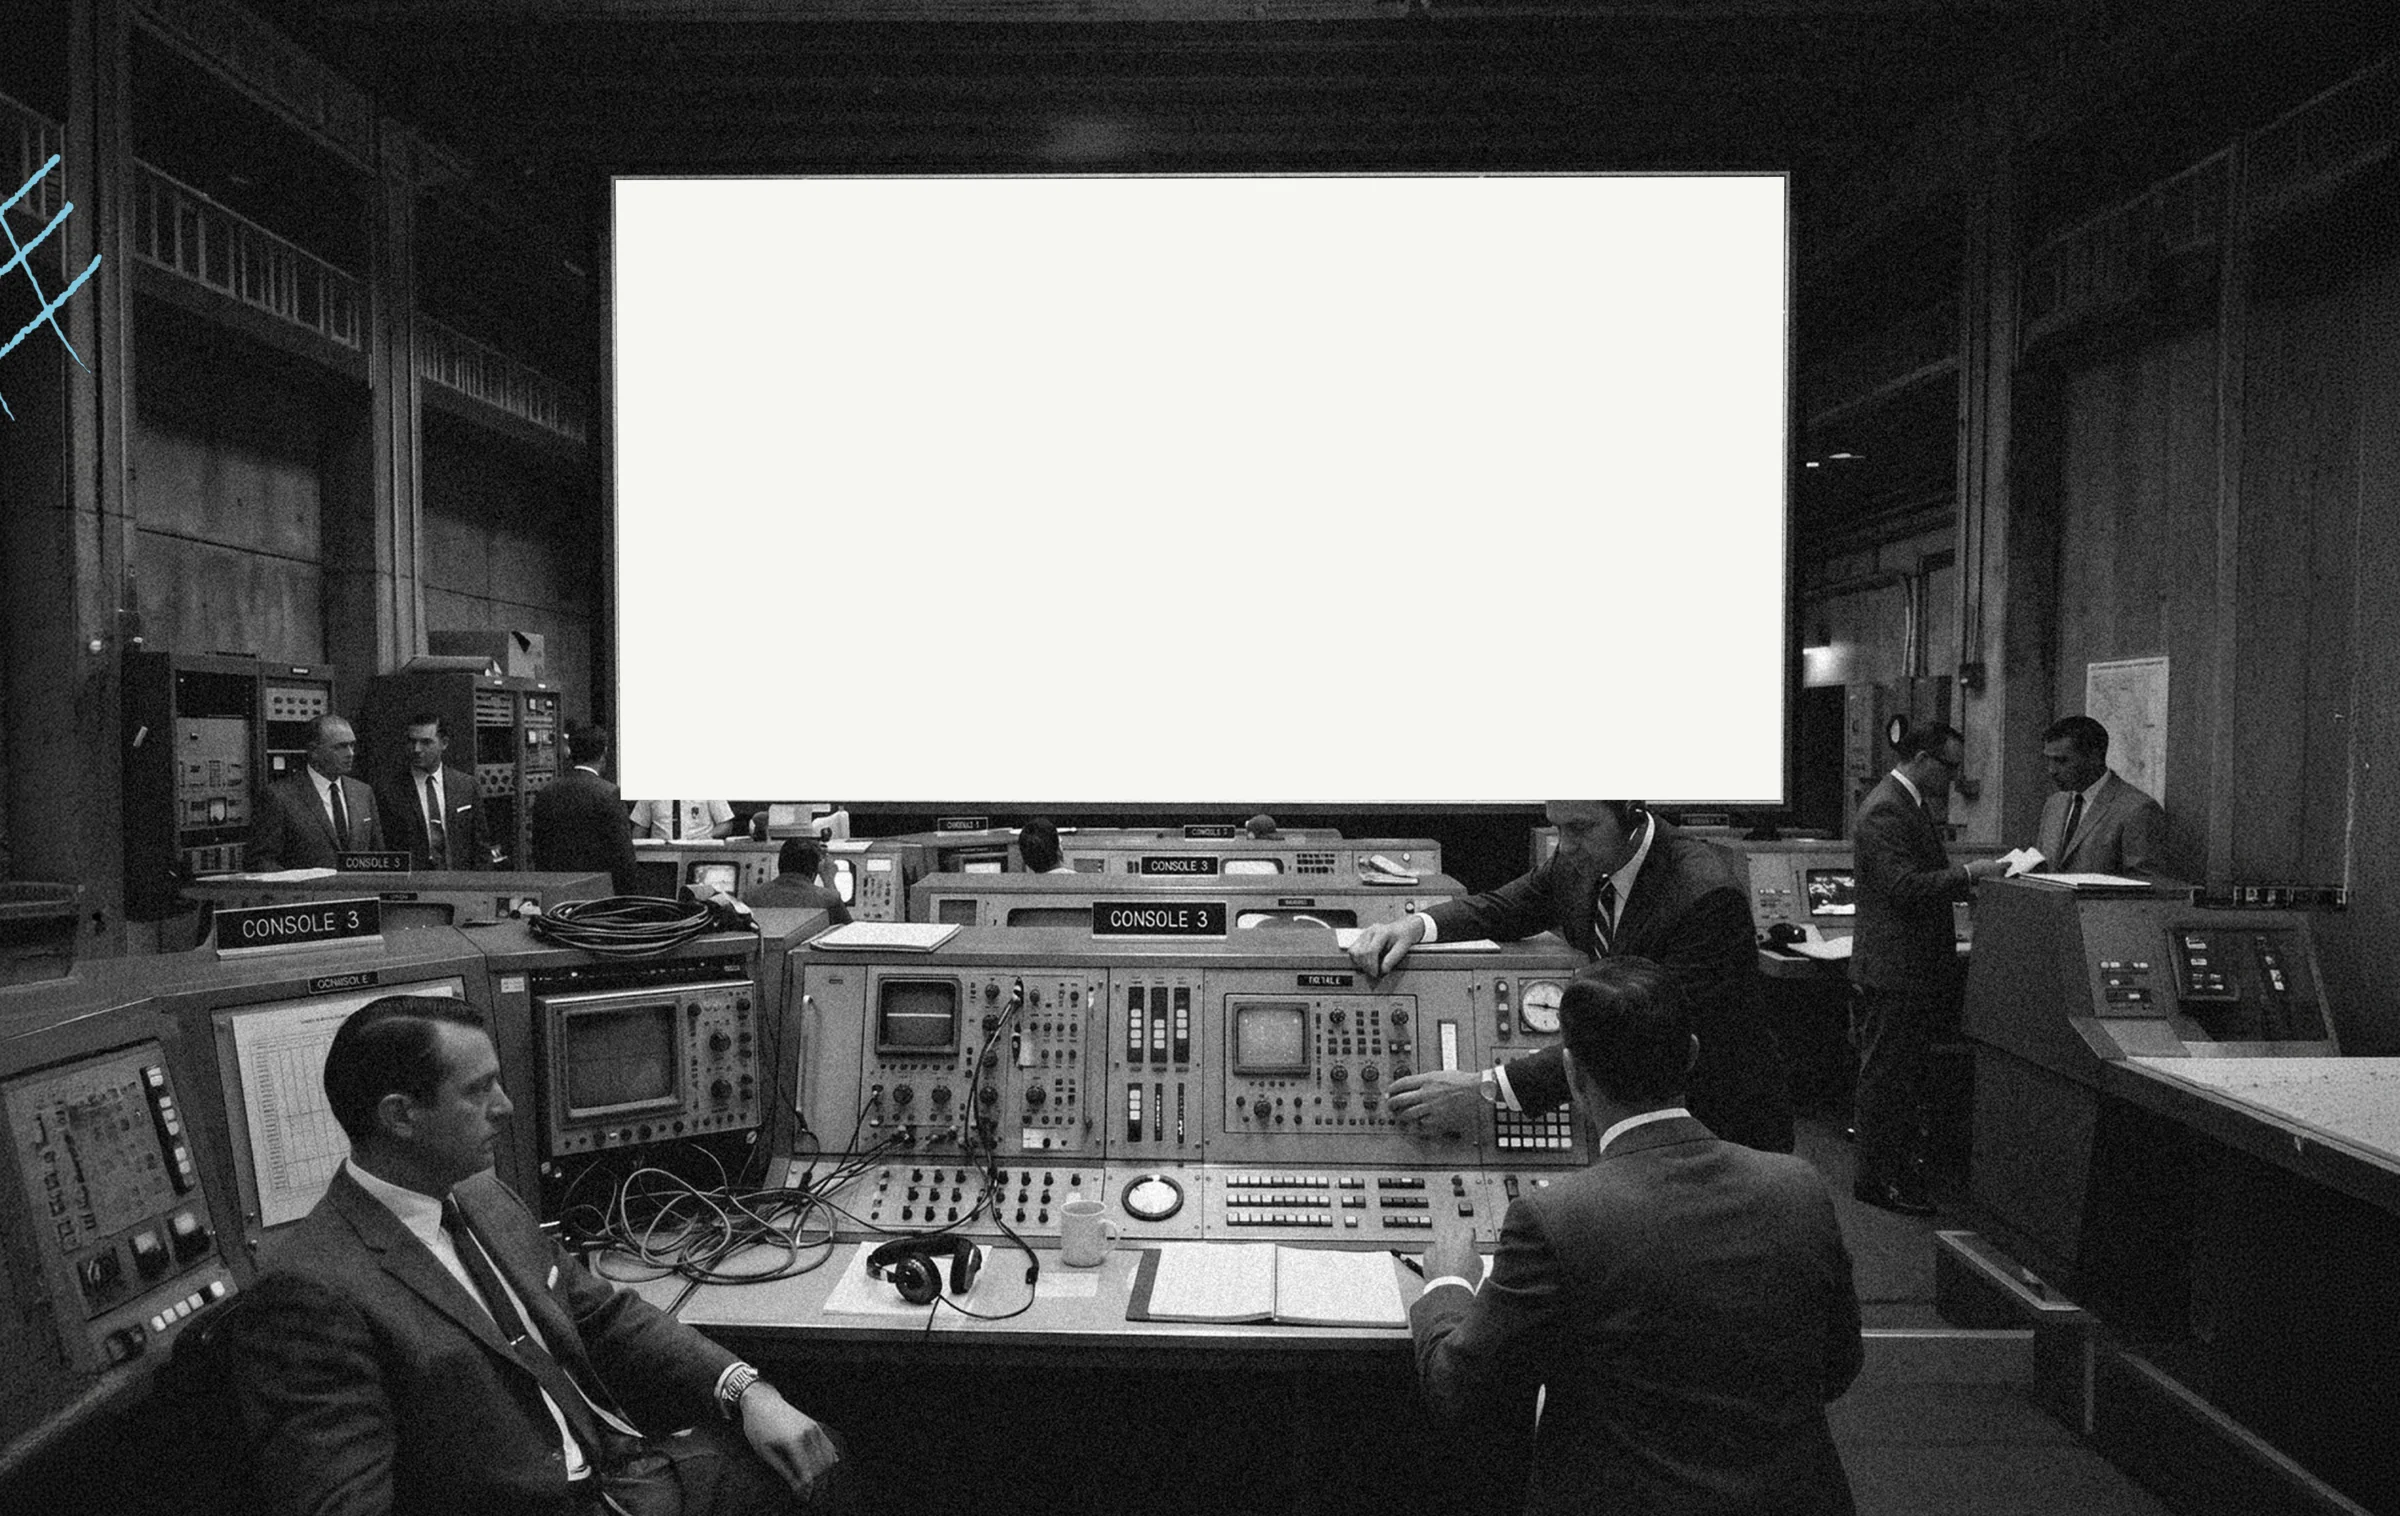
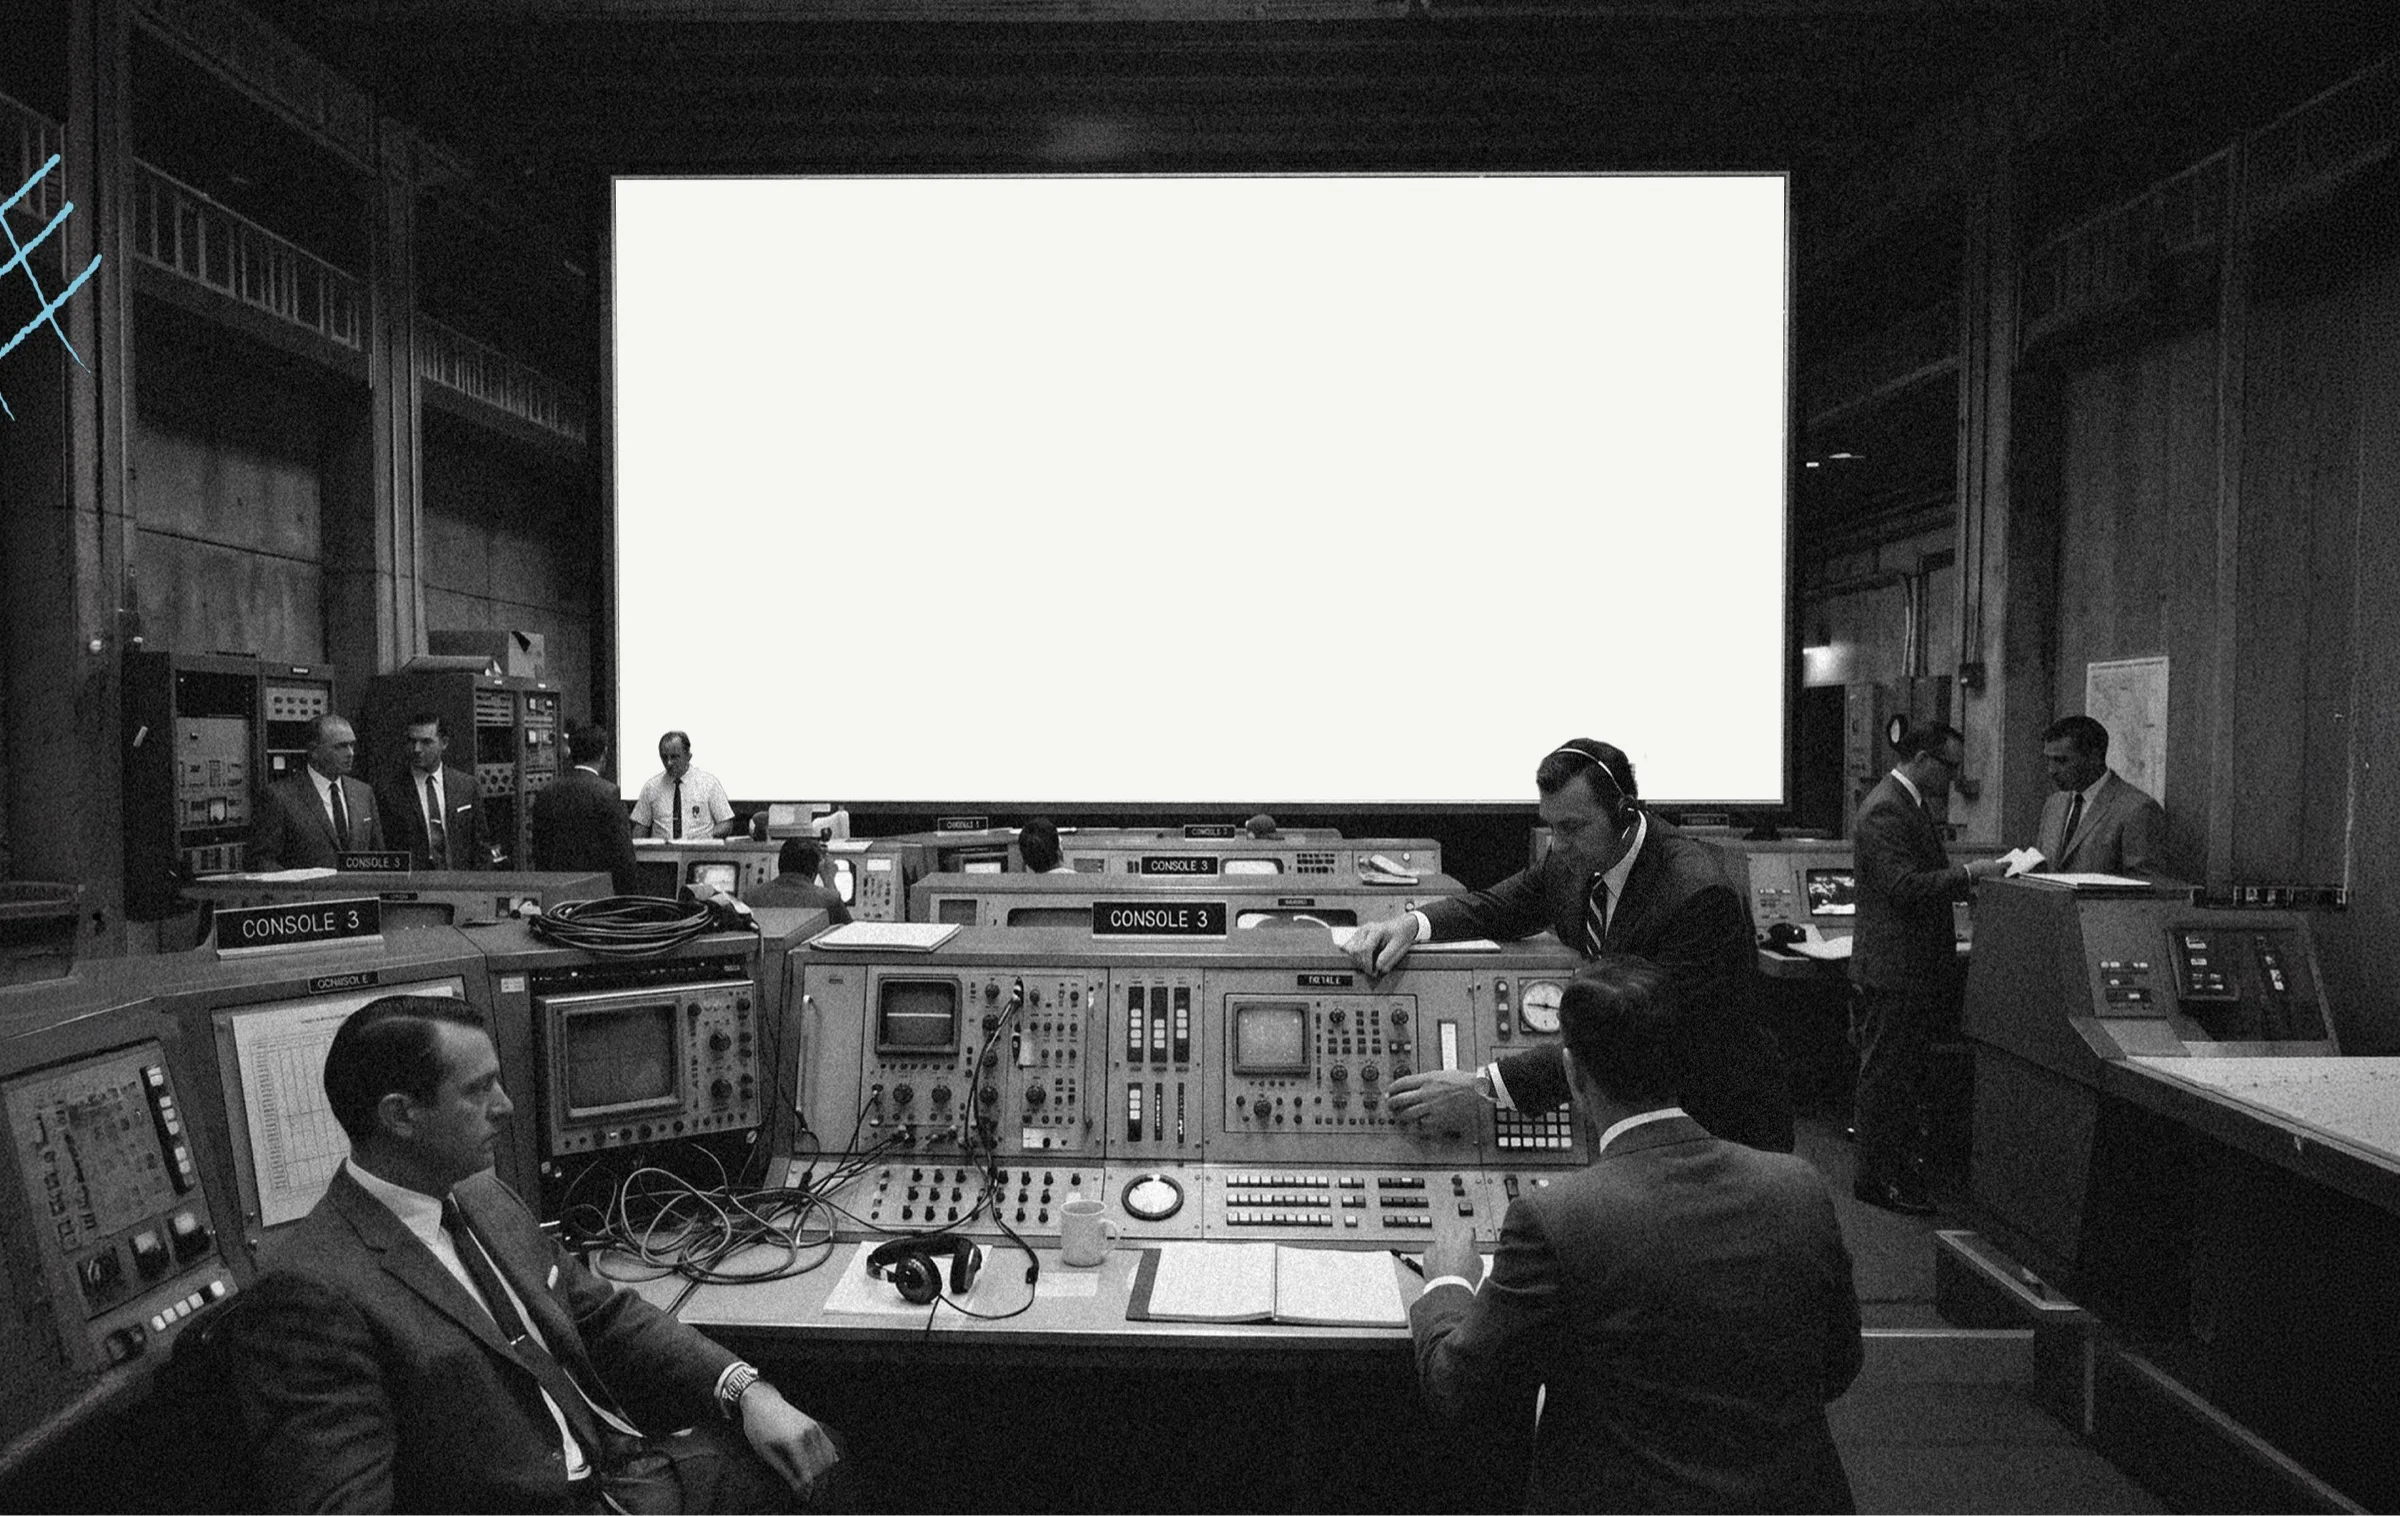
Omar: fix broken Optimisation accordion image + update About hero
- Accordion 'Optimisation' panel referenced /images/ai-accordion/optimisation.webp (404); actual file is optimization.webp. Fixed both refs in index.html and across all ~30 landing-page templates.
- Replaced About Us hero (about-hero-mission-control.webp/.jpg/.png) with the latest design at 2400px wide.

diff --git a/layouts/_default/account-based-marketing-agency.html b/layouts/_default/account-based-marketing-agency.html
@@ -234,7 +234,7 @@
         <img class="pr-ai-grid__layer is-active" data-image-key="/images/ai-accordion/research.webp" loading="lazy" decoding="async" src="/images/ai-accordion/research.webp" alt="AI in ABM">
         <img class="pr-ai-grid__layer" data-image-key="/images/ai-accordion/copy.webp" loading="lazy" decoding="async" src="/images/ai-accordion/copy.webp" alt="">
         <img class="pr-ai-grid__layer" data-image-key="/images/ai-accordion/design.webp" loading="lazy" decoding="async" src="/images/ai-accordion/design.webp" alt="">
-        <img class="pr-ai-grid__layer" data-image-key="/images/ai-accordion/optimisation.webp" loading="lazy" decoding="async" src="/images/ai-accordion/optimisation.webp" alt="">
+        <img class="pr-ai-grid__layer" data-image-key="/images/ai-accordion/optimization.webp" loading="lazy" decoding="async" src="/images/ai-accordion/optimization.webp" alt="">
         <img class="pr-ai-grid__layer" data-image-key="/images/ai-accordion/analysis.webp" loading="lazy" decoding="async" src="/images/ai-accordion/analysis.webp" alt="">
       </div>
       <div class="pr-accordion" data-ai-accordion>
@@ -271,7 +271,7 @@
           <div class="pr-accordion__body">AI produces creative variants per tier, stakeholder, and industry so Tier 1 accounts see genuinely account-aware creative, not a generic LinkedIn ad with the company name swapped in. Which creative earns trust in three seconds stays with the team.</div>
         </details>
 
-        <details class="pr-accordion__item" data-image="/images/ai-accordion/optimisation.webp">
+        <details class="pr-accordion__item" data-image="/images/ai-accordion/optimization.webp">
           <summary class="pr-accordion__header">
             <span class="pr-accordion__header-left">
               <img loading="lazy" decoding="async" src="/images/icon-ai-optimization.svg" class="pr-accordion__icon" alt="" aria-hidden="true">

diff --git a/layouts/_default/ai-seo-services.html b/layouts/_default/ai-seo-services.html
@@ -291,7 +291,7 @@
         <img class="pr-ai-grid__layer is-active" data-image-key="/images/ai-accordion/research.webp" loading="lazy" decoding="async" src="/images/ai-accordion/research.webp" alt="AI in AEO and GEO">
         <img class="pr-ai-grid__layer" data-image-key="/images/ai-accordion/copy.webp" loading="lazy" decoding="async" src="/images/ai-accordion/copy.webp" alt="">
         <img class="pr-ai-grid__layer" data-image-key="/images/ai-accordion/design.webp" loading="lazy" decoding="async" src="/images/ai-accordion/design.webp" alt="">
-        <img class="pr-ai-grid__layer" data-image-key="/images/ai-accordion/optimisation.webp" loading="lazy" decoding="async" src="/images/ai-accordion/optimisation.webp" alt="">
+        <img class="pr-ai-grid__layer" data-image-key="/images/ai-accordion/optimization.webp" loading="lazy" decoding="async" src="/images/ai-accordion/optimization.webp" alt="">
         <img class="pr-ai-grid__layer" data-image-key="/images/ai-accordion/analysis.webp" loading="lazy" decoding="async" src="/images/ai-accordion/analysis.webp" alt="">
       </div>
       <div class="pr-accordion" data-ai-accordion>
@@ -328,7 +328,7 @@
           <div class="pr-accordion__body">AI identifies the specific subreddits, trade publications, podcast transcripts, and GitHub threads that AI engines weight heavily for your category. Which placements move citation share vs. which just add backlinks stays with the team.</div>
         </details>
 
-        <details class="pr-accordion__item" data-image="/images/ai-accordion/optimisation.webp">
+        <details class="pr-accordion__item" data-image="/images/ai-accordion/optimization.webp">
           <summary class="pr-accordion__header">
             <span class="pr-accordion__header-left">
               <img loading="lazy" decoding="async" src="/images/icon-ai-optimization.svg" class="pr-accordion__icon" alt="" aria-hidden="true">

diff --git a/layouts/_default/bing-ads-agency.html b/layouts/_default/bing-ads-agency.html
@@ -253,7 +253,7 @@
         <img class="pr-ai-grid__layer is-active" data-image-key="/images/ai-accordion/research.webp" loading="lazy" decoding="async" src="/images/ai-accordion/research.webp" alt="AI in marketing">
         <img class="pr-ai-grid__layer" data-image-key="/images/ai-accordion/copy.webp" loading="lazy" decoding="async" src="/images/ai-accordion/copy.webp" alt="">
         <img class="pr-ai-grid__layer" data-image-key="/images/ai-accordion/design.webp" loading="lazy" decoding="async" src="/images/ai-accordion/design.webp" alt="">
-        <img class="pr-ai-grid__layer" data-image-key="/images/ai-accordion/optimisation.webp" loading="lazy" decoding="async" src="/images/ai-accordion/optimisation.webp" alt="">
+        <img class="pr-ai-grid__layer" data-image-key="/images/ai-accordion/optimization.webp" loading="lazy" decoding="async" src="/images/ai-accordion/optimization.webp" alt="">
         <img class="pr-ai-grid__layer" data-image-key="/images/ai-accordion/analysis.webp" loading="lazy" decoding="async" src="/images/ai-accordion/analysis.webp" alt="">
       </div>
       <div class="pr-accordion" data-ai-accordion>
@@ -290,7 +290,7 @@
           <div class="pr-accordion__body">AI produces creative variants across sizes, formats, and messaging angles so more combinations are evaluated before spend is committed. Which creative reflects the ICP accurately, which visual hierarchy converts, and whether the design earns trust or loses it in the first three seconds stays with the team.</div>
         </details>
 
-        <details class="pr-accordion__item" data-image="/images/ai-accordion/optimisation.webp">
+        <details class="pr-accordion__item" data-image="/images/ai-accordion/optimization.webp">
           <summary class="pr-accordion__header">
             <span class="pr-accordion__header-left">
               <img loading="lazy" decoding="async" src="/images/icon-ai-optimization.svg" class="pr-accordion__icon" alt="" aria-hidden="true">

diff --git a/layouts/_default/content-marketing-agency.html b/layouts/_default/content-marketing-agency.html
@@ -290,7 +290,7 @@
         <img class="pr-ai-grid__layer is-active" data-image-key="/images/ai-accordion/research.webp" loading="lazy" decoding="async" src="/images/ai-accordion/research.webp" alt="AI in content marketing">
         <img class="pr-ai-grid__layer" data-image-key="/images/ai-accordion/copy.webp" loading="lazy" decoding="async" src="/images/ai-accordion/copy.webp" alt="">
         <img class="pr-ai-grid__layer" data-image-key="/images/ai-accordion/design.webp" loading="lazy" decoding="async" src="/images/ai-accordion/design.webp" alt="">
-        <img class="pr-ai-grid__layer" data-image-key="/images/ai-accordion/optimisation.webp" loading="lazy" decoding="async" src="/images/ai-accordion/optimisation.webp" alt="">
+        <img class="pr-ai-grid__layer" data-image-key="/images/ai-accordion/optimization.webp" loading="lazy" decoding="async" src="/images/ai-accordion/optimization.webp" alt="">
         <img class="pr-ai-grid__layer" data-image-key="/images/ai-accordion/analysis.webp" loading="lazy" decoding="async" src="/images/ai-accordion/analysis.webp" alt="">
       </div>
       <div class="pr-accordion" data-ai-accordion>
@@ -327,7 +327,7 @@
           <div class="pr-accordion__body">AI produces page-layout hypotheses and CTA placement variants. Which layout converts, where to place the lead-capture form, and whether the page earns trust in the first three seconds stays with the team.</div>
         </details>
 
-        <details class="pr-accordion__item" data-image="/images/ai-accordion/optimisation.webp">
+        <details class="pr-accordion__item" data-image="/images/ai-accordion/optimization.webp">
           <summary class="pr-accordion__header">
             <span class="pr-accordion__header-left">
               <img loading="lazy" decoding="async" src="/images/icon-ai-optimization.svg" class="pr-accordion__icon" alt="" aria-hidden="true">

diff --git a/layouts/_default/cybersecurity-marketing-agency.html b/layouts/_default/cybersecurity-marketing-agency.html
@@ -247,7 +247,7 @@
         <img class="pr-ai-grid__layer is-active" data-image-key="/images/ai-accordion/research.webp" loading="lazy" decoding="async" src="/images/ai-accordion/research.webp" alt="AI in cybersecurity marketing">
         <img class="pr-ai-grid__layer" data-image-key="/images/ai-accordion/copy.webp" loading="lazy" decoding="async" src="/images/ai-accordion/copy.webp" alt="">
         <img class="pr-ai-grid__layer" data-image-key="/images/ai-accordion/design.webp" loading="lazy" decoding="async" src="/images/ai-accordion/design.webp" alt="">
-        <img class="pr-ai-grid__layer" data-image-key="/images/ai-accordion/optimisation.webp" loading="lazy" decoding="async" src="/images/ai-accordion/optimisation.webp" alt="">
+        <img class="pr-ai-grid__layer" data-image-key="/images/ai-accordion/optimization.webp" loading="lazy" decoding="async" src="/images/ai-accordion/optimization.webp" alt="">
         <img class="pr-ai-grid__layer" data-image-key="/images/ai-accordion/analysis.webp" loading="lazy" decoding="async" src="/images/ai-accordion/analysis.webp" alt="">
       </div>
       <div class="pr-accordion" data-ai-accordion>
@@ -284,7 +284,7 @@
           <div class="pr-accordion__body">AI produces creative variants across sizes, formats, and messaging angles so more combinations are evaluated before spend is committed. Which creative reflects the ICP accurately, which visual hierarchy converts, and whether the design earns trust or loses it in the first three seconds stays with the team.</div>
         </details>
 
-        <details class="pr-accordion__item" data-image="/images/ai-accordion/optimisation.webp">
+        <details class="pr-accordion__item" data-image="/images/ai-accordion/optimization.webp">
           <summary class="pr-accordion__header">
             <span class="pr-accordion__header-left">
               <img loading="lazy" decoding="async" src="/images/icon-ai-optimization.svg" class="pr-accordion__icon" alt="" aria-hidden="true">

diff --git a/layouts/_default/enterprise-ai-seo-services.html b/layouts/_default/enterprise-ai-seo-services.html
@@ -291,7 +291,7 @@
         <img class="pr-ai-grid__layer is-active" data-image-key="/images/ai-accordion/research.webp" loading="lazy" decoding="async" src="/images/ai-accordion/research.webp" alt="AI in enterprise AEO and GEO">
         <img class="pr-ai-grid__layer" data-image-key="/images/ai-accordion/copy.webp" loading="lazy" decoding="async" src="/images/ai-accordion/copy.webp" alt="">
         <img class="pr-ai-grid__layer" data-image-key="/images/ai-accordion/design.webp" loading="lazy" decoding="async" src="/images/ai-accordion/design.webp" alt="">
-        <img class="pr-ai-grid__layer" data-image-key="/images/ai-accordion/optimisation.webp" loading="lazy" decoding="async" src="/images/ai-accordion/optimisation.webp" alt="">
+        <img class="pr-ai-grid__layer" data-image-key="/images/ai-accordion/optimization.webp" loading="lazy" decoding="async" src="/images/ai-accordion/optimization.webp" alt="">
         <img class="pr-ai-grid__layer" data-image-key="/images/ai-accordion/analysis.webp" loading="lazy" decoding="async" src="/images/ai-accordion/analysis.webp" alt="">
       </div>
       <div class="pr-accordion" data-ai-accordion>
@@ -328,7 +328,7 @@
           <div class="pr-accordion__body">AI identifies the specific subreddits, trade publications, podcast transcripts, and GitHub threads that AI engines weight heavily for your category, across regions and languages. Which placements move citation share vs. which just add backlinks stays with the team.</div>
         </details>
 
-        <details class="pr-accordion__item" data-image="/images/ai-accordion/optimisation.webp">
+        <details class="pr-accordion__item" data-image="/images/ai-accordion/optimization.webp">
           <summary class="pr-accordion__header">
             <span class="pr-accordion__header-left">
               <img loading="lazy" decoding="async" src="/images/icon-ai-optimization.svg" class="pr-accordion__icon" alt="" aria-hidden="true">

diff --git a/layouts/_default/enterprise-ppc-agency.html b/layouts/_default/enterprise-ppc-agency.html
@@ -253,7 +253,7 @@
         <img class="pr-ai-grid__layer is-active" data-image-key="/images/ai-accordion/research.webp" loading="lazy" decoding="async" src="/images/ai-accordion/research.webp" alt="AI in marketing">
         <img class="pr-ai-grid__layer" data-image-key="/images/ai-accordion/copy.webp" loading="lazy" decoding="async" src="/images/ai-accordion/copy.webp" alt="">
         <img class="pr-ai-grid__layer" data-image-key="/images/ai-accordion/design.webp" loading="lazy" decoding="async" src="/images/ai-accordion/design.webp" alt="">
-        <img class="pr-ai-grid__layer" data-image-key="/images/ai-accordion/optimisation.webp" loading="lazy" decoding="async" src="/images/ai-accordion/optimisation.webp" alt="">
+        <img class="pr-ai-grid__layer" data-image-key="/images/ai-accordion/optimization.webp" loading="lazy" decoding="async" src="/images/ai-accordion/optimization.webp" alt="">
         <img class="pr-ai-grid__layer" data-image-key="/images/ai-accordion/analysis.webp" loading="lazy" decoding="async" src="/images/ai-accordion/analysis.webp" alt="">
       </div>
       <div class="pr-accordion" data-ai-accordion>
@@ -290,7 +290,7 @@
           <div class="pr-accordion__body">AI produces creative variants across sizes, formats, and messaging angles — on brand and within approved guidelines — so more combinations are evaluated before spend is committed. Which creative reflects the ICP accurately, which visual hierarchy converts, and whether the design earns trust or loses it in the first three seconds stays with the team.</div>
         </details>
 
-        <details class="pr-accordion__item" data-image="/images/ai-accordion/optimisation.webp">
+        <details class="pr-accordion__item" data-image="/images/ai-accordion/optimization.webp">
           <summary class="pr-accordion__header">
             <span class="pr-accordion__header-left">
               <img loading="lazy" decoding="async" src="/images/icon-ai-optimization.svg" class="pr-accordion__icon" alt="" aria-hidden="true">

diff --git a/layouts/_default/fintech-ppc-agency.html b/layouts/_default/fintech-ppc-agency.html
@@ -232,7 +232,7 @@
         <img class="pr-ai-grid__layer is-active" data-image-key="/images/ai-accordion/research.webp" loading="lazy" decoding="async" src="/images/ai-accordion/research.webp" alt="AI in fintech PPC">
         <img class="pr-ai-grid__layer" data-image-key="/images/ai-accordion/copy.webp" loading="lazy" decoding="async" src="/images/ai-accordion/copy.webp" alt="">
         <img class="pr-ai-grid__layer" data-image-key="/images/ai-accordion/design.webp" loading="lazy" decoding="async" src="/images/ai-accordion/design.webp" alt="">
-        <img class="pr-ai-grid__layer" data-image-key="/images/ai-accordion/optimisation.webp" loading="lazy" decoding="async" src="/images/ai-accordion/optimisation.webp" alt="">
+        <img class="pr-ai-grid__layer" data-image-key="/images/ai-accordion/optimization.webp" loading="lazy" decoding="async" src="/images/ai-accordion/optimization.webp" alt="">
         <img class="pr-ai-grid__layer" data-image-key="/images/ai-accordion/analysis.webp" loading="lazy" decoding="async" src="/images/ai-accordion/analysis.webp" alt="">
       </div>
       <div class="pr-accordion" data-ai-accordion>
@@ -266,7 +266,7 @@
           </summary>
           <div class="pr-accordion__body">AI produces creative variants across sizes, formats, and messaging angles so more combinations are evaluated before spend is committed. Which creative reflects the fintech ICP accurately, which visual hierarchy converts, and whether the design earns trust in the first three seconds stays with the team.</div>
         </details>
-        <details class="pr-accordion__item" data-image="/images/ai-accordion/optimisation.webp">
+        <details class="pr-accordion__item" data-image="/images/ai-accordion/optimization.webp">
           <summary class="pr-accordion__header">
             <span class="pr-accordion__header-left">
               <img loading="lazy" decoding="async" src="/images/icon-ai-optimization.svg" class="pr-accordion__icon" alt="" aria-hidden="true">

diff --git a/layouts/_default/google-ads-agency.html b/layouts/_default/google-ads-agency.html
@@ -253,7 +253,7 @@
         <img class="pr-ai-grid__layer is-active" data-image-key="/images/ai-accordion/research.webp" loading="lazy" decoding="async" src="/images/ai-accordion/research.webp" alt="AI in marketing">
         <img class="pr-ai-grid__layer" data-image-key="/images/ai-accordion/copy.webp" loading="lazy" decoding="async" src="/images/ai-accordion/copy.webp" alt="">
         <img class="pr-ai-grid__layer" data-image-key="/images/ai-accordion/design.webp" loading="lazy" decoding="async" src="/images/ai-accordion/design.webp" alt="">
-        <img class="pr-ai-grid__layer" data-image-key="/images/ai-accordion/optimisation.webp" loading="lazy" decoding="async" src="/images/ai-accordion/optimisation.webp" alt="">
+        <img class="pr-ai-grid__layer" data-image-key="/images/ai-accordion/optimization.webp" loading="lazy" decoding="async" src="/images/ai-accordion/optimization.webp" alt="">
         <img class="pr-ai-grid__layer" data-image-key="/images/ai-accordion/analysis.webp" loading="lazy" decoding="async" src="/images/ai-accordion/analysis.webp" alt="">
       </div>
       <div class="pr-accordion" data-ai-accordion>
@@ -290,7 +290,7 @@
           <div class="pr-accordion__body">AI produces creative variants across sizes, formats, and messaging angles so more combinations are evaluated before spend is committed. Which creative reflects the ICP accurately, which visual hierarchy converts, and whether the design earns trust or loses it in the first three seconds stays with the team.</div>
         </details>
 
-        <details class="pr-accordion__item" data-image="/images/ai-accordion/optimisation.webp">
+        <details class="pr-accordion__item" data-image="/images/ai-accordion/optimization.webp">
           <summary class="pr-accordion__header">
             <span class="pr-accordion__header-left">
               <img loading="lazy" decoding="async" src="/images/icon-ai-optimization.svg" class="pr-accordion__icon" alt="" aria-hidden="true">

diff --git a/layouts/_default/healthtech-marketing-agency.html b/layouts/_default/healthtech-marketing-agency.html
@@ -247,7 +247,7 @@
         <img class="pr-ai-grid__layer is-active" data-image-key="/images/ai-accordion/research.webp" loading="lazy" decoding="async" src="/images/ai-accordion/research.webp" alt="AI in healthtech marketing">
         <img class="pr-ai-grid__layer" data-image-key="/images/ai-accordion/copy.webp" loading="lazy" decoding="async" src="/images/ai-accordion/copy.webp" alt="">
         <img class="pr-ai-grid__layer" data-image-key="/images/ai-accordion/design.webp" loading="lazy" decoding="async" src="/images/ai-accordion/design.webp" alt="">
-        <img class="pr-ai-grid__layer" data-image-key="/images/ai-accordion/optimisation.webp" loading="lazy" decoding="async" src="/images/ai-accordion/optimisation.webp" alt="">
+        <img class="pr-ai-grid__layer" data-image-key="/images/ai-accordion/optimization.webp" loading="lazy" decoding="async" src="/images/ai-accordion/optimization.webp" alt="">
         <img class="pr-ai-grid__layer" data-image-key="/images/ai-accordion/analysis.webp" loading="lazy" decoding="async" src="/images/ai-accordion/analysis.webp" alt="">
       </div>
       <div class="pr-accordion" data-ai-accordion>
@@ -284,7 +284,7 @@
           <div class="pr-accordion__body">AI produces creative variants across sizes, formats, and messaging angles so more combinations are evaluated before spend is committed. Which creative reflects the ICP accurately, which visual hierarchy converts, and whether the design earns trust or loses it in the first three seconds stays with the team.</div>
         </details>
 
-        <details class="pr-accordion__item" data-image="/images/ai-accordion/optimisation.webp">
+        <details class="pr-accordion__item" data-image="/images/ai-accordion/optimization.webp">
           <summary class="pr-accordion__header">
             <span class="pr-accordion__header-left">
               <img loading="lazy" decoding="async" src="/images/icon-ai-optimization.svg" class="pr-accordion__icon" alt="" aria-hidden="true">

diff --git a/layouts/_default/hrtech-ppc-agency.html b/layouts/_default/hrtech-ppc-agency.html
@@ -231,7 +231,7 @@
         <img class="pr-ai-grid__layer is-active" data-image-key="/images/ai-accordion/research.webp" loading="lazy" decoding="async" src="/images/ai-accordion/research.webp" alt="AI in HRtech PPC">
         <img class="pr-ai-grid__layer" data-image-key="/images/ai-accordion/copy.webp" loading="lazy" decoding="async" src="/images/ai-accordion/copy.webp" alt="">
         <img class="pr-ai-grid__layer" data-image-key="/images/ai-accordion/design.webp" loading="lazy" decoding="async" src="/images/ai-accordion/design.webp" alt="">
-        <img class="pr-ai-grid__layer" data-image-key="/images/ai-accordion/optimisation.webp" loading="lazy" decoding="async" src="/images/ai-accordion/optimisation.webp" alt="">
+        <img class="pr-ai-grid__layer" data-image-key="/images/ai-accordion/optimization.webp" loading="lazy" decoding="async" src="/images/ai-accordion/optimization.webp" alt="">
         <img class="pr-ai-grid__layer" data-image-key="/images/ai-accordion/analysis.webp" loading="lazy" decoding="async" src="/images/ai-accordion/analysis.webp" alt="">
       </div>
       <div class="pr-accordion" data-ai-accordion>
@@ -265,7 +265,7 @@
           </summary>
           <div class="pr-accordion__body">AI produces creative variants across sizes, formats, and messaging angles so more combinations are evaluated before spend is committed. Which creative reflects the HRtech ICP accurately, which visual hierarchy converts, and whether the design earns trust in the first three seconds stays with the team.</div>
         </details>
-        <details class="pr-accordion__item" data-image="/images/ai-accordion/optimisation.webp">
+        <details class="pr-accordion__item" data-image="/images/ai-accordion/optimization.webp">
           <summary class="pr-accordion__header">
             <span class="pr-accordion__header-left">
               <img loading="lazy" decoding="async" src="/images/icon-ai-optimization.svg" class="pr-accordion__icon" alt="" aria-hidden="true">

diff --git a/layouts/_default/linkedin-marketing-agency.html b/layouts/_default/linkedin-marketing-agency.html
@@ -253,7 +253,7 @@
         <img class="pr-ai-grid__layer is-active" data-image-key="/images/ai-accordion/research.webp" loading="lazy" decoding="async" src="/images/ai-accordion/research.webp" alt="AI in marketing">
         <img class="pr-ai-grid__layer" data-image-key="/images/ai-accordion/copy.webp" loading="lazy" decoding="async" src="/images/ai-accordion/copy.webp" alt="">
         <img class="pr-ai-grid__layer" data-image-key="/images/ai-accordion/design.webp" loading="lazy" decoding="async" src="/images/ai-accordion/design.webp" alt="">
-        <img class="pr-ai-grid__layer" data-image-key="/images/ai-accordion/optimisation.webp" loading="lazy" decoding="async" src="/images/ai-accordion/optimisation.webp" alt="">
+        <img class="pr-ai-grid__layer" data-image-key="/images/ai-accordion/optimization.webp" loading="lazy" decoding="async" src="/images/ai-accordion/optimization.webp" alt="">
         <img class="pr-ai-grid__layer" data-image-key="/images/ai-accordion/analysis.webp" loading="lazy" decoding="async" src="/images/ai-accordion/analysis.webp" alt="">
       </div>
       <div class="pr-accordion" data-ai-accordion>
@@ -290,7 +290,7 @@
           <div class="pr-accordion__body">AI produces creative variants across sizes, formats, and messaging angles so more combinations are evaluated before spend is committed. Which creative reflects the ICP accurately, which visual hierarchy converts, and whether the design earns trust or loses it in the first three seconds stays with the team.</div>
         </details>
 
-        <details class="pr-accordion__item" data-image="/images/ai-accordion/optimisation.webp">
+        <details class="pr-accordion__item" data-image="/images/ai-accordion/optimization.webp">
           <summary class="pr-accordion__header">
             <span class="pr-accordion__header-left">
               <img loading="lazy" decoding="async" src="/images/icon-ai-optimization.svg" class="pr-accordion__icon" alt="" aria-hidden="true">